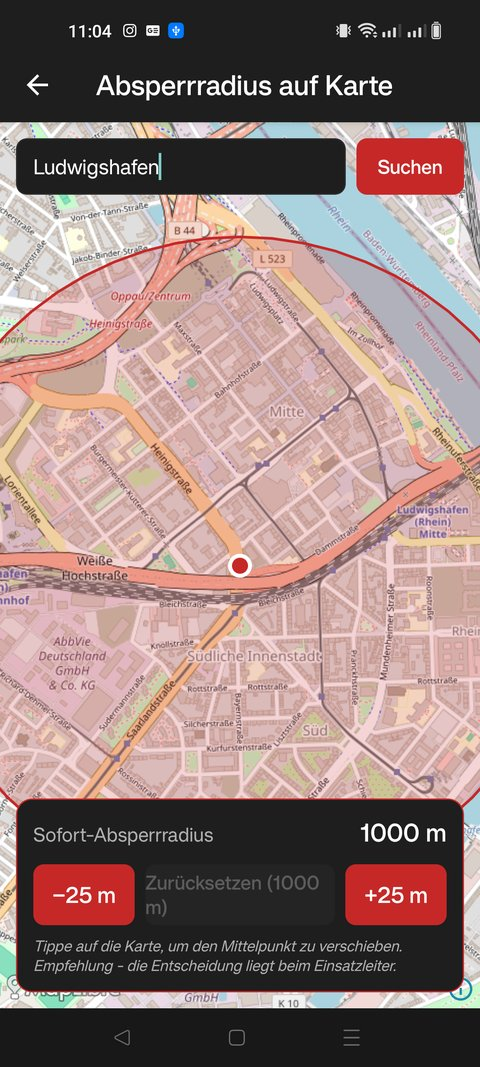
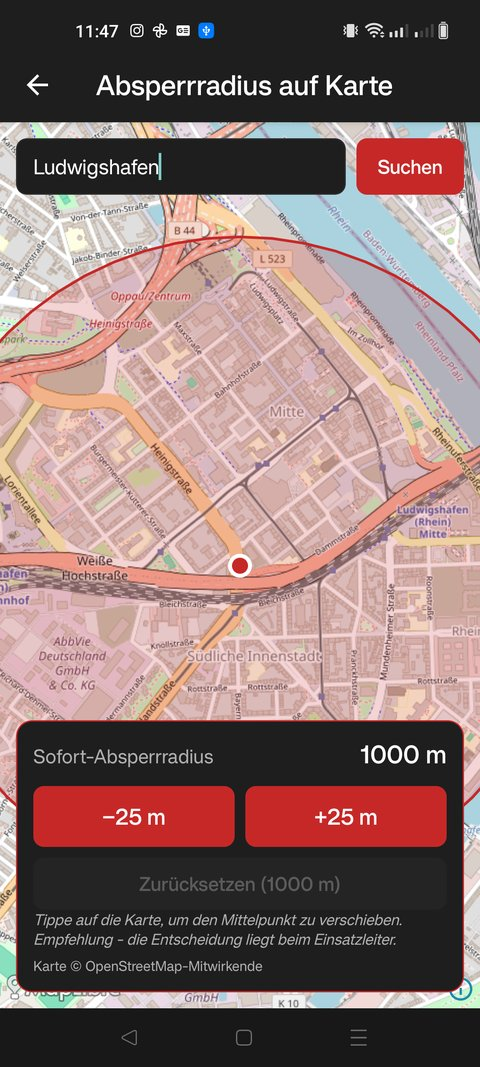
Correct the German wording, credit OpenStreetMap, add screenshots
Exported from the private repository, where these arrived as separate steps.

diff --git a/apps/mobile/app/calculator/evacuation-map.tsx b/apps/mobile/app/calculator/evacuation-map.tsx
@@ -241,18 +241,6 @@ export default function EvacuationMapScreen() {
           </Pressable>
 
           <Pressable
-            style={[styles.resetButton, !isAdjusted && styles.resetButtonDisabled]}
-            onPress={() => setRadiusMeters(calculatedRadius)}
-            disabled={!isAdjusted}
-            accessibilityRole="button"
-            accessibilityLabel="Auf berechneten Radius zurücksetzen"
-          >
-            <Text style={[styles.resetButtonText, !isAdjusted && styles.resetButtonTextDisabled]}>
-              Zurücksetzen ({calculatedRadius} m)
-            </Text>
-          </Pressable>
-
-          <Pressable
             style={styles.stepButton}
             onPress={() => setRadiusMeters((r) => r + RADIUS_STEP)}
             accessibilityRole="button"
@@ -262,10 +250,27 @@ export default function EvacuationMapScreen() {
           </Pressable>
         </View>
 
+        <Pressable
+          style={[styles.resetButton, !isAdjusted && styles.resetButtonDisabled]}
+          onPress={() => setRadiusMeters(calculatedRadius)}
+          disabled={!isAdjusted}
+          accessibilityRole="button"
+          accessibilityLabel="Auf berechneten Radius zurücksetzen"
+        >
+          <Text
+            style={[styles.resetButtonText, !isAdjusted && styles.resetButtonTextDisabled]}
+            numberOfLines={1}
+          >
+            Zurücksetzen ({calculatedRadius} m)
+          </Text>
+        </Pressable>
+
         <Text style={styles.footerHint}>
           Tippe auf die Karte, um den Mittelpunkt zu verschieben. Empfehlung - die
           Entscheidung liegt beim Einsatzleiter.
         </Text>
+
+        <Text style={styles.attribution}>Karte © OpenStreetMap-Mitwirkende</Text>
       </View>
     </View>
   );
@@ -387,6 +392,9 @@ const styles = StyleSheet.create({
     marginVertical: 8,
   },
   stepButton: {
+    // Split the row between them. They used to be pushed apart by the reset control that
+    // sat between them, and a wide target is worth having with gloves on.
+    flex: 1,
     backgroundColor: COLORS.primary,
     paddingVertical: 12,
     paddingHorizontal: 14,
@@ -397,7 +405,7 @@ const styles = StyleSheet.create({
   },
   stepButtonText: { color: COLORS.text, fontSize: 16, fontWeight: 'bold' },
   resetButton: {
-    flex: 1,
+    paddingVertical: 10,
     backgroundColor: COLORS.surfaceLight,
     borderRadius: 8,
     alignItems: 'center',
@@ -407,4 +415,5 @@ const styles = StyleSheet.create({
   resetButtonText: { color: COLORS.text, fontSize: 14, fontWeight: 'bold' },
   resetButtonTextDisabled: { color: COLORS.textSecondary },
   footerHint: { color: COLORS.textSecondary, fontSize: 11, fontStyle: 'italic' },
+  attribution: { color: COLORS.textSecondary, fontSize: 10, marginTop: 6 },
 });

diff --git a/apps/mobile/app/substance/[unNumber].tsx b/apps/mobile/app/substance/[unNumber].tsx
@@ -121,7 +121,7 @@ export default function SubstanceDetailScreen() {
           Stoff nicht gefunden
         </Text>
         <Text style={{ color: COLORS.textSecondary, fontSize: 14, textAlign: 'center' }}>
-          Kein Eintrag fuer UN {unNumber}
+          Kein Eintrag für UN {unNumber}
         </Text>
       </View>
     );
@@ -137,7 +137,7 @@ export default function SubstanceDetailScreen() {
           selectedIndex={selectedIndex}
           onSelect={setSelectedIndex}
           accessibilityLabelPrefix="Variante"
-          hint={`${variants.length} Eintraege zu UN ${substance.un_number}. Vorausgewaehlt ist der gefaehrlichste.`}
+          hint={`${variants.length} Einträge zu UN ${substance.un_number}. Vorausgewählt ist der gefährlichste.`}
         />
 
         <View style={styles.metaRow}>
@@ -179,7 +179,7 @@ export default function SubstanceDetailScreen() {
       {ericard ? (
         <>
           <ERICardSection
-            title="Einsatz-Massnahmen"
+            title="Einsatzmaßnahmen"
             icon={'\u{1F6A8}'}
             items={parseJsonField(ericard.immediate_actions)}
             defaultOpen
@@ -190,12 +190,12 @@ export default function SubstanceDetailScreen() {
             items={parseJsonField(ericard.hazards)}
           />
           <ERICardSection
-            title="Persoenlicher Schutz"
+            title="Persönlicher Schutz"
             icon={'\u{1F6E1}'}
             items={parseJsonField(ericard.personal_protection)}
           />
           <ERICardSection
-            title="Loeschmittel / Brandbekaempfung"
+            title="Löschmittel / Brandbekämpfung"
             icon={'\u{1F692}'}
             items={parseJsonField(ericard.firefighting)}
           />
@@ -205,7 +205,7 @@ export default function SubstanceDetailScreen() {
             items={parseJsonField(ericard.first_aid)}
           />
           <ERICardSection
-            title="Massnahmen bei Freisetzung"
+            title="Maßnahmen bei Freisetzung"
             icon={'\u{1F4A7}'}
             items={parseJsonField(ericard.spillage)}
           />
@@ -219,7 +219,7 @@ export default function SubstanceDetailScreen() {
       ) : (
         <View style={{ alignItems: 'center', marginTop: 32, paddingHorizontal: 32 }}>
           <Text style={{ color: COLORS.textSecondary, fontSize: 14, textAlign: 'center' }}>
-            Keine ERICard fuer diesen Stoff vorhanden
+            Keine ERICard für diesen Stoff vorhanden
           </Text>
         </View>
       )}

diff --git a/apps/mobile/app/calculator/__tests__/evacuation-map.rntl.test.tsx b/apps/mobile/app/calculator/__tests__/evacuation-map.rntl.test.tsx
@@ -1,0 +1,50 @@
+import { render, screen } from '@testing-library/react-native';
+
+import EvacuationMapScreen from '../evacuation-map';
+
+jest.mock('expo-router', () => ({
+  useLocalSearchParams: () => ({ radius: '300', unNumber: '1017' }),
+}));
+
+jest.mock('expo-location', () => ({
+  useForegroundPermissions: () => [{ granted: true }, jest.fn()],
+  getCurrentPositionAsync: jest.fn().mockResolvedValue({
+    coords: { longitude: 8.4, latitude: 49.5 },
+  }),
+  geocodeAsync: jest.fn().mockResolvedValue([]),
+  Accuracy: { Balanced: 3 },
+}));
+
+// The native map renders nothing useful under jest, so it is reduced to plain views. The
+// screen's own chrome is what these tests are about.
+jest.mock('@maplibre/maplibre-react-native', () => {
+  // Rendering the children straight through keeps react-native out of this factory, which
+  // jest hoists above the imports.
+  const passthrough = ({ children }: { children?: React.ReactNode }) => children ?? null;
+  return {
+    Map: passthrough,
+    Camera: () => null,
+    GeoJSONSource: passthrough,
+    Layer: () => null,
+    Marker: passthrough,
+  };
+});
+
+describe('EvacuationMapScreen', () => {
+  // The OpenStreetMap tile usage policy requires the attribution to be visible. MapLibre
+  // draws its own in the bottom left corner, where the radius card covers it, so the
+  // screen has to carry the credit itself.
+  it('credits OpenStreetMap where the card cannot cover it', async () => {
+    await render(<EvacuationMapScreen />);
+
+    expect(screen.getByText(/OpenStreetMap/)).toBeOnTheScreen();
+  });
+
+  it('offers the reset control with the calculated radius', async () => {
+    await render(<EvacuationMapScreen />);
+
+    expect(
+      screen.getByRole('button', { name: 'Auf berechneten Radius zurücksetzen' })
+    ).toBeOnTheScreen();
+  });
+});

diff --git a/apps/mobile/app/substance/__tests__/substance-detail.rntl.test.tsx b/apps/mobile/app/substance/__tests__/substance-detail.rntl.test.tsx
@@ -1,6 +1,6 @@
 import { render, screen, userEvent } from '@testing-library/react-native';
 
-import { createTestDatabase, substance } from '../../../lib/database/__tests__/test-db';
+import { createTestDatabase, ericard, substance } from '../../../lib/database/__tests__/test-db';
 import SubstanceDetailScreen from '../[unNumber]';
 
 // UN 1105 PENTANOLE really does exist twice in ADR Table A: Kemler 33 in packing group
@@ -12,7 +12,10 @@ const VARIANTS = [
 ];
 
 let mockParams: { unNumber: string; kemler?: string } = { unNumber: '1105' };
-const mockDb = createTestDatabase({ substances: VARIANTS });
+const mockDb = createTestDatabase({
+  substances: VARIANTS,
+  ericards: [ericard({ un_number: '1105', substance_name: 'PENTANOLE', ericard_id: '3-07' })],
+});
 
 jest.mock('expo-router', () => ({
   useLocalSearchParams: () => mockParams,
@@ -74,6 +77,15 @@ describe('SubstanceDetailScreen', () => {
 
     expect(screen.getByRole('button', { name: 'Variante VG II | Kemler 33' })).toBeOnTheScreen();
     expect(screen.getByRole('button', { name: 'Variante VG III | Kemler 30' })).toBeOnTheScreen();
+  });
+
+  it('writes the ERICard section titles in proper German', async () => {
+    await render(<SubstanceDetailScreen />);
+
+    expect(screen.getByText('Einsatzmaßnahmen')).toBeOnTheScreen();
+    expect(screen.getByText('Persönlicher Schutz')).toBeOnTheScreen();
+    expect(screen.getByText('Löschmittel / Brandbekämpfung')).toBeOnTheScreen();
+    expect(screen.getByText('Maßnahmen bei Freisetzung')).toBeOnTheScreen();
   });
 
   it('says so when the UN number is unknown', async () => {

diff --git a/apps/mobile/lib/database/__tests__/test-db.ts b/apps/mobile/lib/database/__tests__/test-db.ts
@@ -73,6 +73,25 @@ export const createTestDatabase = (
   return db;
 };
 
+type ERICardSeed = ISeedData['ericards'][number];
+
+/** ERICard row with the fields a test does not care about prefilled. */
+export const ericard = (overrides: Partial<ERICardSeed>): ERICardSeed => ({
+  un_number: '1203',
+  substance_name: 'BENZIN',
+  ericard_id: '3-01',
+  immediate_actions: JSON.stringify(['Zündquellen ausschließen']),
+  firefighting: JSON.stringify(['Schaum']),
+  personal_protection: JSON.stringify(['Chemikalienschutzanzug']),
+  first_aid: JSON.stringify(['Betroffene an die frische Luft bringen']),
+  spillage: JSON.stringify(['Eindämmen']),
+  hazards: JSON.stringify(['Leicht entzündbar']),
+  physical_properties: JSON.stringify(['Farblose Flüssigkeit']),
+  evacuation_distance_m: null,
+  water_hazard_class: null,
+  ...overrides,
+});
+
 type SubstanceSeed = ISeedData['substances'][number];
 
 /** Substance row with the fields a test does not care about prefilled. */

diff --git a/apps/mobile/lib/scanner/placard-pairing.ts b/apps/mobile/lib/scanner/placard-pairing.ts
@@ -6,7 +6,7 @@
  * lookup is injected as an UnNumberValidator.
  */
 
-// --- Number extraction (mirrors backend extract_numbers logic) ---
+// --- Number extraction ---
 
 const KEMLER_PATTERN = /^X?\d{2,3}$/;
 const UN_PATTERN = /^\d{4}$/;

diff --git a/README.md b/README.md
@@ -111,10 +111,15 @@ Which terms apply to both datasets, and what the attribution has to carry, is in
 
     cd apps/mobile
     npm install
-    npx expo run:android
+    ./build-android.sh release --device
 
-The scanner needs a real device. The camera and the GPU frame processing do not work in
-an emulator.
+Always build onto a real device. The camera and the GPU frame processing do not work in an
+emulator, and with one configured `expo run:android` picks it without asking. A failed
+emulator start still exits zero, so that failure reads as a successful build.
+
+`./build-android.sh` without an argument builds the debug variant, which is the faster loop
+while developing. Use the release variant to check anything that behaves differently in a
+shipped app, the model loading above all.
 
 ## Tests
 
